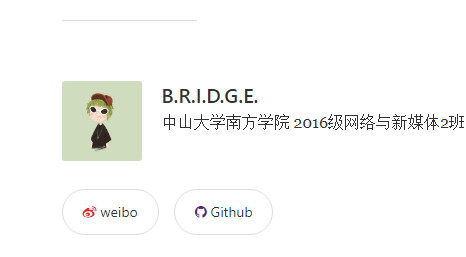
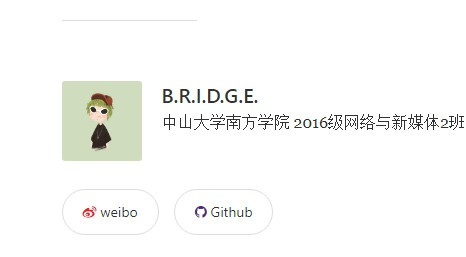
修改文章的teaser

diff --git a/_posts/2017-01-02-personal link.md b/_posts/2017-01-02-personal link.md
@@ -5,16 +5,16 @@ date:   2018-01-02 21:43:25 +0800
 categories: posts rwd
 
 image:
-  feature: weibo.jpg
-  teaser: weibo.jpg
+  feature: s.jpg
+  teaser: s.jpg
  
 ---
 
-### 文章底部个人信息链接的修改
+### 文章底部个人信息链接的修改,效果如上图**↑**。
 
-效果如下图：
 
-<img src="https://niniupiwofu.github.io/images/o.jpg" alt="01">
+
+
 
 
 我以我增加的 **github** 及 **weibo** 个人主页为例
